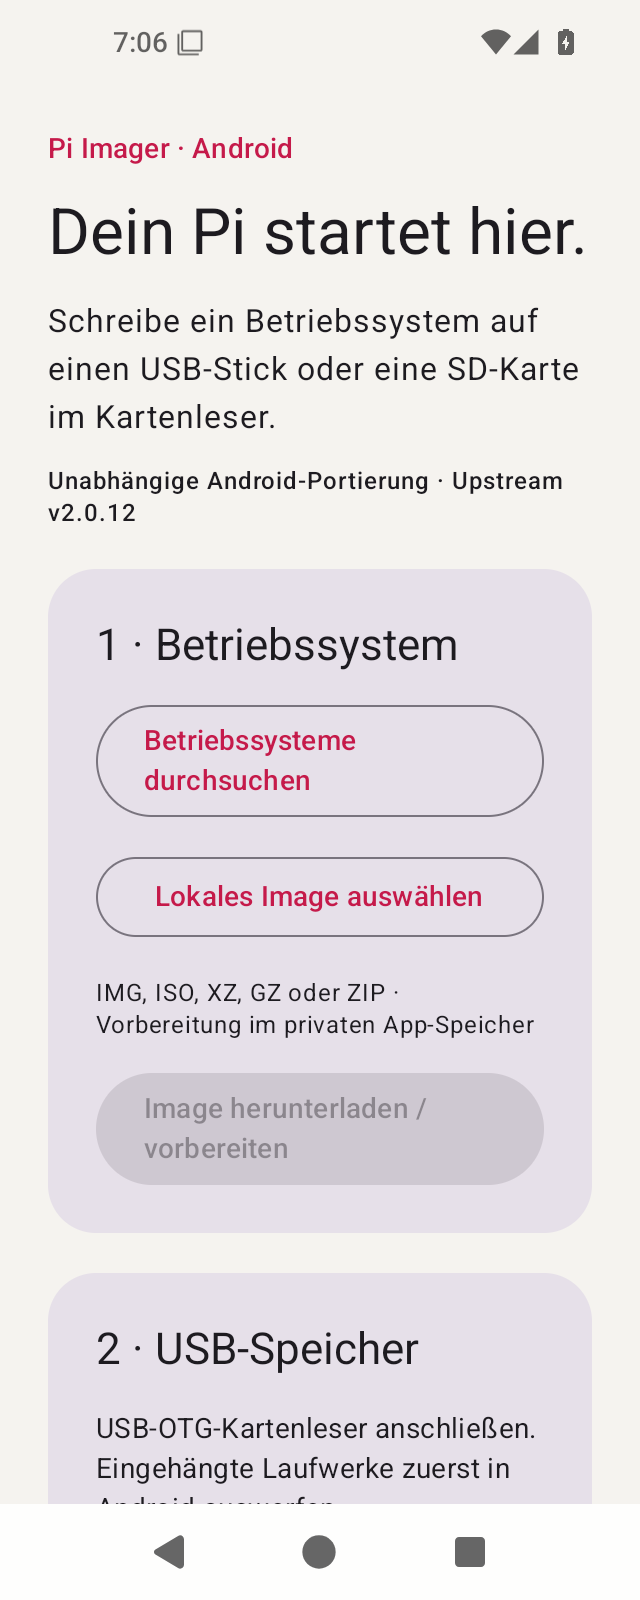
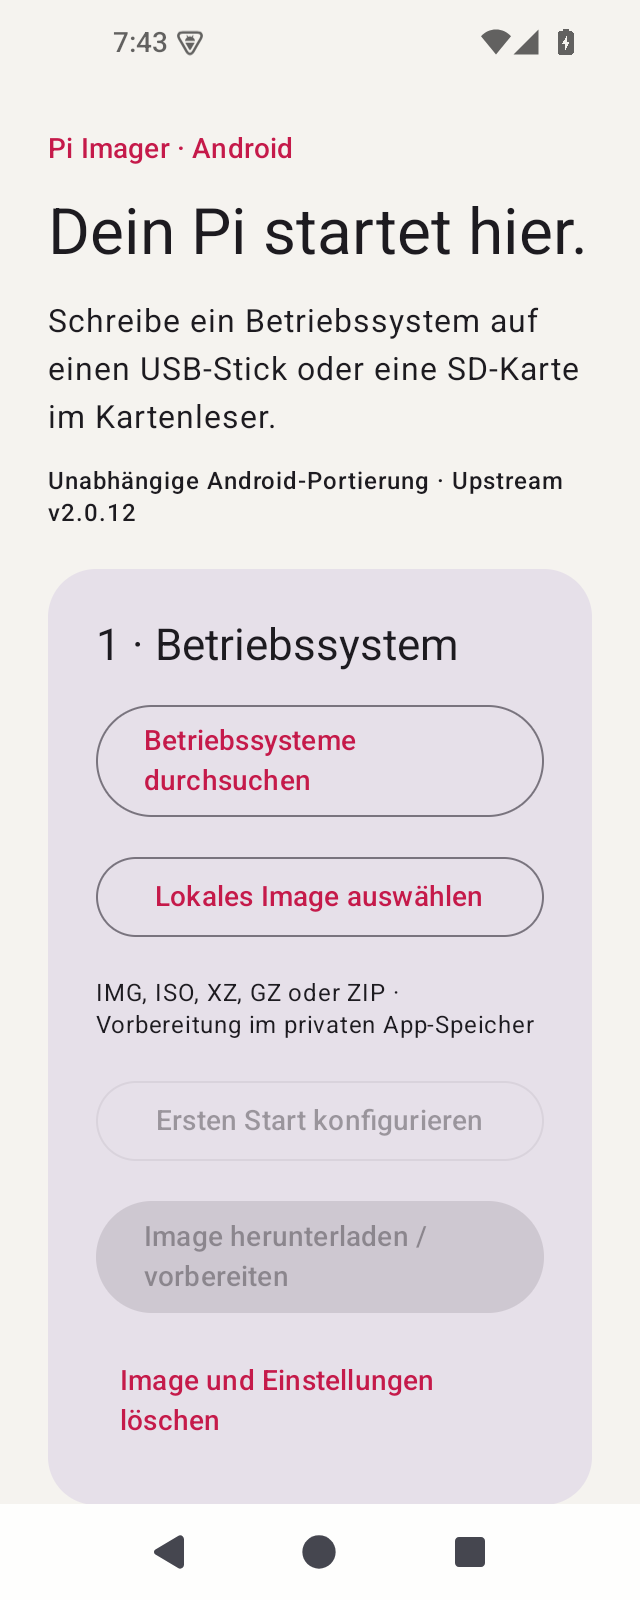
docs: verify Android customization on official images and emulator

Changed region(s): [[0.1562, 0.6875, 0.8438, 1.0], [0.2188, 0.0, 0.3125, 0.0312]]

diff --git a/docs/VALIDATION-0.2.0.md b/docs/VALIDATION-0.2.0.md
@@ -1,0 +1,38 @@
+# Android-Vorkonfiguration: Prüfung am 18. Oktober 2026
+
+App-Quellstand und Release-Tag: `0c93047`, `v0.2.0`. Upstream unverändert: `v2.0.12`, `84b03d96cd4c390ebe475a4b5db5735e5535e9a6`.
+
+## Automatische Prüfungen
+
+- 25 JVM-Tests erfolgreich: acht Boot-Dateisystemtests, elf Konfigurations-/Validierungstests und sechs bestehende Schreibkern-Tests.
+- Vier Python-Tests der Release-Auswahl erfolgreich.
+- Unabhängige YAML- und TOML-Parser prüfen die generierten Cloud-init-/Preseed-Dateien, einschließlich Anführungszeichen, Backslashes und Sonderzeichen in Zugangsdaten. Der Systemd-First-Run wird mit `sh -n` syntaktisch geprüft und nicht ausgeführt. Diese Prüfung läuft in CI und vor jedem APK-Release.
+- Android Lint für Debug und Release, Debug-Build und signierter, mit R8 optimierter Release-Build erfolgreich. GitHub-CI für den App-Quellstand erfolgreich.
+- Dateisystemtests prüfen unter anderem MBR und GPT, GPT-Prüfsummen, obere/untere Partitionsgrenzen, zyklische FAT-Ketten, FAT-Spiegel, lange Dateinamen, Vergrößerung des Root-Verzeichnisses, Abbruch und Wechsel zwischen Einrichtungsverfahren.
+
+## Offizielle Images
+
+Zwei zusätzliche Integrationstests wurden lokal mit heruntergeladenen, anhand des offiziellen Katalogs per SHA-256 geprüften Images ausgeführt:
+
+| Image | Einrichtungsformat | Ergebnis |
+| --- | --- | --- |
+| Raspberry Pi OS Lite (64-bit), Trixie, 2026-10-06 | `cloudinit-rpi` | Bootdateien erstellt und erneut gelesen; Linux-Rootpartition byteweise über SHA-256 unverändert |
+| Raspberry Pi OS (Legacy, 64-bit) Lite, Bookworm, 2026-10-06 | `systemd` | First-Run und Bootoptionen erstellt und erneut gelesen; Linux-Rootpartition byteweise über SHA-256 unverändert |
+
+Die geänderten Bootpartitionen wurden zusätzlich mit dem unabhängigen Python-Paket `pyfatfs` gelesen. Cloud-init-Dateien wurden mit PyYAML geparst, das echte generierte Legacy-Skript mit einer POSIX-Shell syntaktisch geprüft. Die Tests booten keinen Raspberry Pi.
+
+Die optionalen Tests stehen in `RealImageIntegrationTest`. Zum Wiederholen `PI_IMAGER_CLOUD_IMAGE` und `PI_IMAGER_SYSTEMD_IMAGE` auf die entpackten, geprüften Images setzen und `testDebugUnitTest --tests de.jtracht.piimager.data.RealImageIntegrationTest --rerun` ausführen. Sie arbeiten auf temporären Kopien. In normaler CI ohne diese Images werden genau diese zwei Tests übersprungen.
+
+## Android-Emulator
+
+- Signierte Release-Vorschau auf Android 15 / API 35 als Update installiert und gestartet; App-Code entspricht dem Release-Quellstand. Kein Crash im Crash-Log.
+- Katalog geöffnet und korrektes `cloudinit-rpi` automatisch aus dem gewählten OS übernommen.
+- Ungespeichertes Benutzerpasswort blieb beim Wechsel zwischen Hoch- und Querformat im offenen Dialog erhalten. Es wird nicht in Saved State oder Einstellungen abgelegt.
+- Lokales FAT32-Testimage über Androids Dokumentenauswahl geöffnet; Format ausdrücklich ausgewählt; Benutzerpasswort, verstecktes WLAN, SSH-Passwortauthentifizierung sowie I²C, SPI und 1-Wire konfiguriert; Image erfolgreich in der Android-App vorbereitet.
+- Die von der App erzeugte Image-Datei wurde anschließend im Testemulator separat untersucht: Dateisystem mit `pyfatfs`, Konfiguration mit PyYAML, Passwort-Hash gegen OpenSSL-SHA-512-crypt. WLAN-Daten und alle gewählten Hardware-Optionen waren korrekt enthalten. Die App selbst bereitete das Image unter ihrer normalen Android-Benutzerkennung vor; Root wurde ausschließlich danach zur Testinspektion des privaten App-Speichers im Emulator verwendet.
+- „Image und Einstellungen löschen“ entfernt die vorbereitete Datei aus dem privaten App-Speicher.
+- Layout und fehlender-Zieldatenträger-Sperre bei 320, 360, 411, 600 und 840 dp geprüft; System- und WLAN-Dialog zusätzlich visuell geprüft. Screenshots unter `docs/screenshots/` enthalten nur synthetische Testwerte.
+
+## Noch nicht durch Hardware bestätigt
+
+Echter erster Start auf einem Raspberry Pi, WLAN-Verbindungsaufbau und SSH-Anmeldung auf dem Pi, physische USB-Kartenleser einschließlich mehrerer LUNs, 16-KB-Android-Geräte und TalkBack. Die oben genannten Datei-, Syntax- und Emulatorprüfungen ersetzen diese Tests nicht. Grenzen und noch nicht portierte Desktop-Funktionen stehen in der README.

diff --git a/README.md b/README.md
@@ -28,6 +28,8 @@ Unterstützt sind Benutzername und Passwort, Hostname, Zeitzone, Tastaturlayout,
 
 Das vorbereitete Image kann Zugangsdaten enthalten und bleibt bis zur nächsten Vorbereitung, „Image und Einstellungen löschen“, App-Daten-Löschung oder Deinstallation im privaten App-Speicher. Der Löschknopf ist auch nach einem App-Neustart verfügbar. Löschen entfernt die Datei; es ist kein garantiertes physisches Überschreiben von Flash-Speicher.
 
+Bei lokalen Images lässt eine ausgeschaltete WLAN-Einrichtung vorhandene Netzwerkeinstellungen des Ausgangsimages unverändert. Die Android-App verändert oder löscht die ausgewählte Originaldatei nicht.
+
 Grenzen: Vorkonfiguration benötigt eine FAT32-Bootpartition mit `config.txt` und `cmdline.txt` in einem MBR-/GPT- oder eigenständigen FAT32-Image. FAT16-/ext4-only-/beliebige ISO-Bootdateisysteme lassen sich unverändert schreiben, aber nicht vorkonfigurieren. Ein als `systemd` markiertes Image braucht die Raspberry-Pi-OS-Helfer `imager_custom` und gegebenenfalls `userconf`. Unbekannte Katalogformate werden nicht automatisch umgedeutet. Raspberry-Pi-Connect-Anmeldung, Secure Boot, USB-Gadget-/Fastboot-Provisionierung und UAS-only-Geräte sind weiterhin nicht portiert. Die App behauptet daher keine vollständige Funktionsgleichheit mit der Desktop-Anwendung.
 
 ## Automatische Releases
@@ -65,13 +67,15 @@ cd rpi-imager-android
 python scripts/prepare_upstream.py
 python -m unittest discover -s scripts -p 'test_*.py'
 ./gradlew testDebugUnitTest lintDebug assembleDebug
+python -m pip install PyYAML==6.0.2
+python scripts/validate_customization.py
 ```
 
 Unter Windows `gradlew.bat` verwenden. Für einen signierten Release die Umgebungsvariablen `ANDROID_KEYSTORE_PATH`, `ANDROID_KEYSTORE_PASSWORD`, `ANDROID_KEY_ALIAS`, `ANDROID_KEY_PASSWORD` setzen und `assembleRelease` ausführen. Versionierung erfolgt über `ANDROID_VERSION_NAME` und `ANDROID_VERSION_CODE`; CI verwendet Sekunden seit dem 1. Januar 2024 UTC, gemeinsam für Tag- und Sync-Builds. Der unveränderte Gradle Wrapper ist mit Prüfsumme abgesichert.
 
 ## Prüfung und Screenshots
 
-Build-, Release- und Emulator-Nachweise stehen in [docs/VALIDATION.md](docs/VALIDATION.md). Die Oberfläche wurde bei 320, 360, 411, 600 und 840 dp geprüft: [Handy](docs/screenshots/width-360.png), [Tablet](docs/screenshots/width-840.png). Für eine Wiederholung die APK auf einem laufenden Emulator installieren und `python scripts/emulator_smoke.py /pfad/zu/adb emulator-5554` ausführen. Der Test schreibt keine USB-Datenträger.
+Build-, Release- und Emulator-Nachweise der ersten Version stehen in [docs/VALIDATION.md](docs/VALIDATION.md), die Prüfungen der Vorkonfiguration in [docs/VALIDATION-0.2.0.md](docs/VALIDATION-0.2.0.md). Die Oberfläche wurde bei 320, 360, 411, 600 und 840 dp geprüft: [Handy](docs/screenshots/width-360.png), [Tablet](docs/screenshots/width-840.png), [System-Einstellungen](docs/screenshots/settings-system-320.png), [WLAN-Einstellungen](docs/screenshots/settings-wifi-840.png). Für eine Wiederholung die APK auf einem laufenden Emulator installieren und `python scripts/emulator_smoke.py /pfad/zu/adb emulator-5554` ausführen. Der Test schreibt keine USB-Datenträger.
 
 ## Nachweise und Lizenz
 
